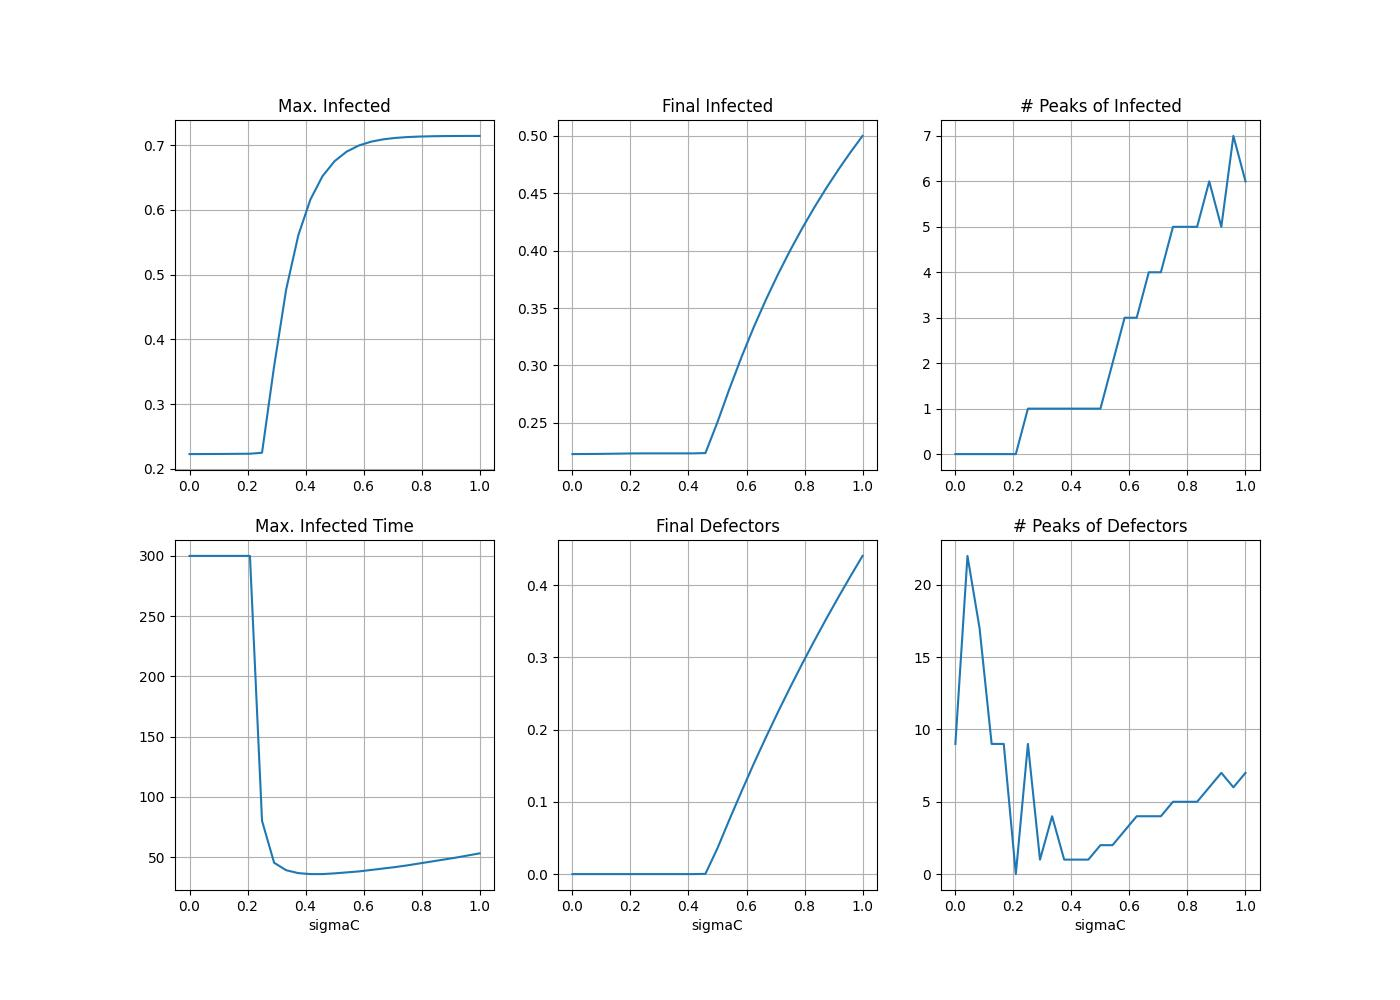
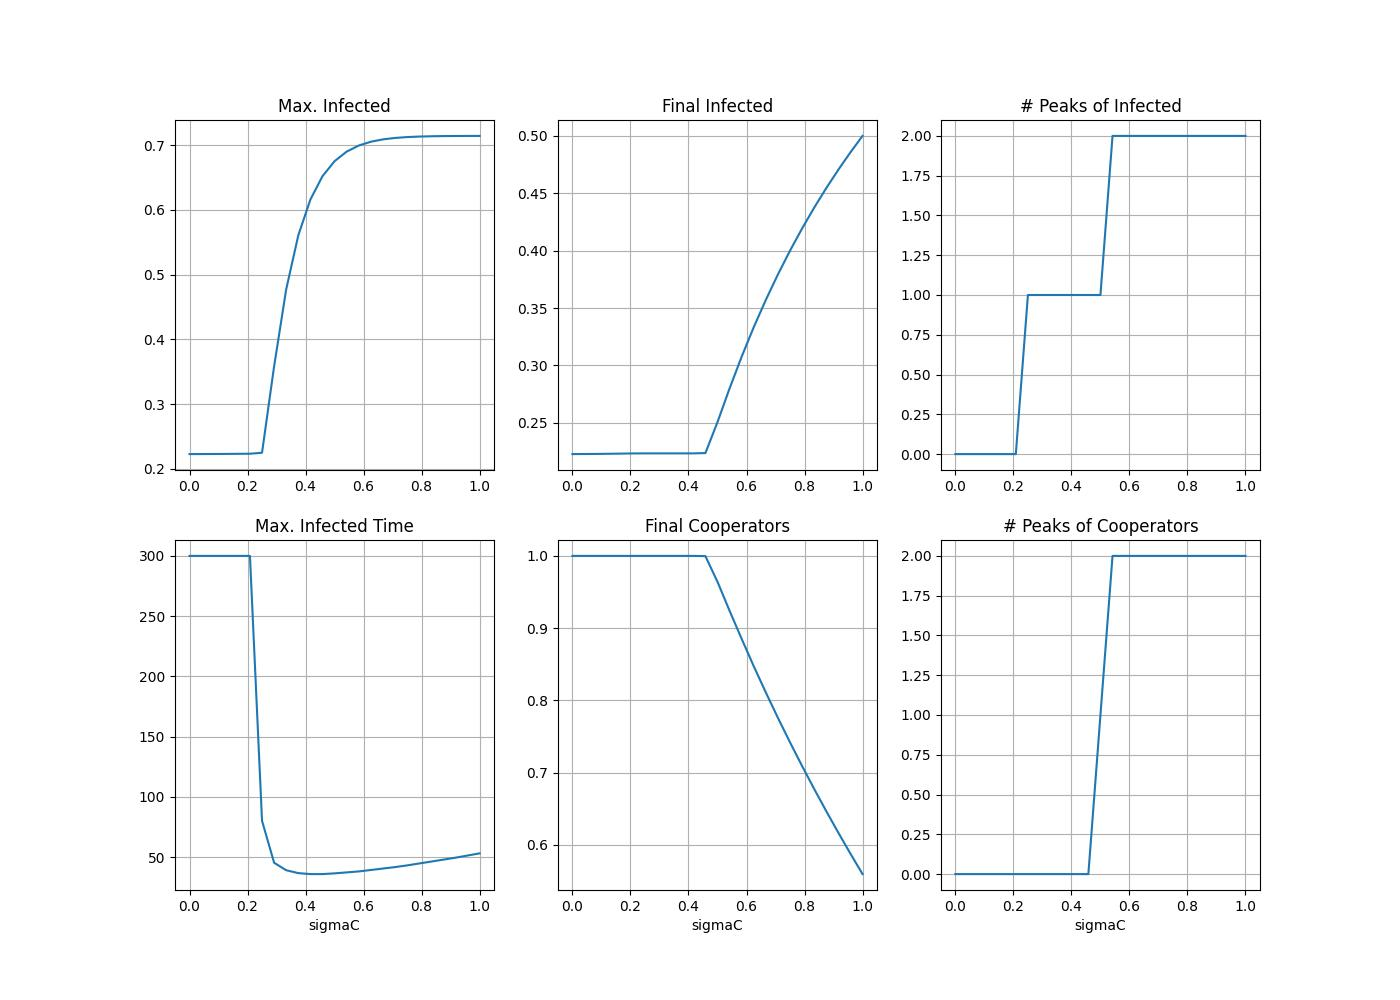
fixed count oscillations of features

diff --git a/plots/plot_ODE_dynamics.py b/plots/plot_ODE_dynamics.py
@@ -10,29 +10,72 @@ from scipy.signal import find_peaks
 
 main_path = os.path.join(os.path.split(os.getcwd())[0],'Epi_Social_Dynamic')
 config_path = os.path.join(main_path,'config.csv')
+
 config_data = pd.read_csv(config_path, sep=',', header=None, index_col=0)
 results_path = config_data.loc['results_dir'][1]
 plots_path = config_data.loc['plots_dir'][1]
 parematric_df_dir = config_data.loc['parametric_df_dir'][1]
-
+df_parametric = pd.read_csv(os.path.join(main_path, parematric_df_dir), index_col=0)
 
 ##
-t_max = 200
+t_max = 300
 gamma = 1 / 7
 t = np.linspace(0, t_max, t_max*5)
+min_prominence = 0.001
 
-def count_oscillations(sim):
-    idx_peaks, dict_peaks = find_peaks(sim)
-    return np.size(idx_peaks)
+def count_oscillations(sim, min_prominence):
+    idx_peaks, dict_peaks = find_peaks(sim, prominence=min_prominence)
+    return idx_peaks, len(idx_peaks)
 
+def find_stability_time(sim, epsilon):
+    last_val = sim[-1,0]
+    stable_sim = sim[np.abs(sim-last_val) <= epsilon]
+    return len(stable_sim)  
+
+def graph_simulationFeatures(path_to_results, name_file):
+    df_temp = pd.read_csv(path_to_results+'.csv', index_col=0)
+    I = np.array(df_temp[['I']]); S = np.array(df_temp[['S']])
+    C = np.array(df_temp[['C']]); D = np.array(df_temp[['D']])
+    time = np.array(df_temp[['time']])
+
+    
+    I_idxPeaks, I_numPeaks = count_oscillations(I[:,0], min_prominence)
+    I_timeStable = find_stability_time(I, 0.0001)
+    C_idxPeaks, C_numPeaks = count_oscillations(C[:,0], min_prominence)
+    C_timeStable = find_stability_time(C, 0.0001)
+    
+    fig, axes = plt.subplots(2,1, figsize=(12,8))
+
+    axes[0].plot(time, I, label='Infected', color='mediumorchid')
+    axes[0].plot(time[-I_timeStable:], I[-I_timeStable:], label='final I = {:0.2f}'.format(I[-1,0]), color='mediumorchid', alpha=0.4, marker='o')
+    axes[0].plot(time, S, label='Susceptible', color='dodgerblue')
+    axes[0].scatter(time[np.argmax(I),0], np.max(I), label='Max. I = {:0.2f}'.format(np.max(I)), color='purple')
+    axes[0].scatter(time[I_idxPeaks,0], I[I_idxPeaks,0], [500]*I_numPeaks, marker='|', label='# I Peaks = {:0.0f}'.format(I_numPeaks), color='indigo')
+    axes[0].grid()
+    axes[0].legend()
+    axes[0].set_ylabel('Percentage [%]')
+    axes[0].set_xlabel('Time [days]')
+
+    axes[1].plot(time, C, label='Cooperators', color='limegreen')
+    axes[1].plot(time[-C_timeStable:], C[-C_timeStable:], label='final C = {:0.2f}'.format(C[-1,0]), color='limegreen', alpha=0.4, marker='o')
+    axes[1].plot(time, D, label='Defectors', color='orangered')
+    axes[1].scatter(time[np.argmax(C)], np.max(C), label='Max. C = {:0.2f}'.format(np.max(C)), color='seagreen')
+    axes[1].scatter(time[C_idxPeaks,0], C[C_idxPeaks,0], [500]*C_numPeaks, marker='|', label='# C Peaks = {:0.0f}'.format(C_numPeaks), color='darkgreen')
+    axes[1].grid()
+    axes[1].legend()
+    axes[1].set_ylabel('Percentage [%]')
+    axes[1].set_xlabel('Time [days]')
+
+    plt.savefig(os.path.join(main_path, results_path, 'plots', 'ODE_Simulations', name_file+'.jpeg'), dpi=500)
+    plt.close()
 
 def graph_1D_experimentation(param_search, param_name:str):
     Imax_ = np.zeros(param_search.shape)
     Tmax_ = np.zeros(param_search.shape)
     Ifinal_ = np.zeros(param_search.shape)
-    Dfinal_ = np.zeros(param_search.shape)
+    Cfinal_ = np.zeros(param_search.shape)
     Ioscillations_ = np.zeros(param_search.shape)
-    Doscillations_ = np.zeros(param_search.shape)
+    Coscillations_ = np.zeros(param_search.shape)
 
     for idx1, p in enumerate(param_search):
         path_to_results = os.path.join(results_path, 'ode_results', '1D', 'ode_replicator_{}_{:0.2f}'.format(param_name, p)+'.csv')
@@ -41,9 +84,9 @@ def graph_1D_experimentation(param_search, param_name:str):
         Imax_[idx1] = np.max(df_temp[['I']])
         Tmax_[idx1] = np.array(df_temp[['time']])[np.argmax(df_temp[['I']])]
         Ifinal_[idx1] = np.array(df_temp[['I']])[-1]
-        Dfinal_[idx1] = np.array(df_temp[['D']])[-1]
-        Ioscillations_[idx1] = count_oscillations(np.array(df_temp[['I']])[:,0])
-        Doscillations_[idx1] = count_oscillations(np.array(df_temp[['D']])[:,0])
+        Cfinal_[idx1] = np.array(df_temp[['C']])[-1]
+        Ioscillations_[idx1] = count_oscillations(np.array(df_temp[['I']])[:,0], min_prominence)[1]
+        Coscillations_[idx1] = count_oscillations(np.array(df_temp[['C']])[:,0], min_prominence)[1]
 
     fig, ax = plt.subplots(2, 3, figsize=(14,10))
 
@@ -60,19 +103,19 @@ def graph_1D_experimentation(param_search, param_name:str):
     ax[0,1].set_title('Final Infected')
     ax[0,1].grid()
     
-    ax[1,1].plot(param_search, Dfinal_)
+    ax[1,1].plot(param_search, Cfinal_)
     ax[1,1].grid()
     ax[1,1].set_xlabel(f'{param_name}')
-    ax[1,1].set_title('Final Defectors')
+    ax[1,1].set_title('Final Cooperators')
 
     ax[0,2].plot(param_search, Ioscillations_)
     ax[0,2].grid()
     ax[0,2].set_title('# Peaks of Infected')
 
-    ax[1,2].plot(param_search, Doscillations_)
+    ax[1,2].plot(param_search, Coscillations_)
     ax[1,2].grid()
     ax[1,2].set_xlabel(f'{param_name}')
-    ax[1,2].set_title('# Peaks of Defectors')
+    ax[1,2].set_title('# Peaks of Cooperators')
 
     if not os.path.isdir( os.path.join(results_path, plots_path, '1D') ):
                 os.makedirs(os.path.join(results_path, plots_path, '1D'))
@@ -84,9 +127,9 @@ def graph_2D_experimentation(param_search1, param_search2, param_name1: str, par
     Imax_ = np.zeros((param_search1.shape[0], param_search2.shape[0]))
     Tmax_ = np.zeros((param_search1.shape[0], param_search2.shape[0]))
     Ifinal_ = np.zeros((param_search1.shape[0], param_search2.shape[0]))
-    Dfinal_ = np.zeros((param_search1.shape[0], param_search2.shape[0]))
+    Cfinal_ = np.zeros((param_search1.shape[0], param_search2.shape[0]))
     Ioscillations_ = np.zeros((param_search1.shape[0], param_search2.shape[0]))
-    Doscillations_ = np.zeros((param_search1.shape[0], param_search2.shape[0]))
+    Coscillations_ = np.zeros((param_search1.shape[0], param_search2.shape[0]))
 
     param_ticks1 = np.linspace(param_search1[0], param_search1[-1], 6)
     param_ticks2 = np.linspace(param_search2[0], param_search2[-1], 6)
@@ -102,9 +145,9 @@ def graph_2D_experimentation(param_search1, param_search2, param_name1: str, par
             Imax_[idx1, idx2] = np.max(df_temp[['I']])
             Tmax_[idx1, idx2] = np.array(df_temp[['time']])[np.argmax(df_temp[['I']])]
             Ifinal_[idx1, idx2] = np.array(df_temp[['I']])[-1]
-            Dfinal_[idx1, idx2] = np.array(df_temp[['D']])[-1]
-            Ioscillations_[idx1, idx2] = count_oscillations(np.array(df_temp[['I']])[:,0])
-            Doscillations_[idx1, idx2] = count_oscillations(np.array(df_temp[['D']])[:,0])
+            Cfinal_[idx1, idx2] = np.array(df_temp[['C']])[-1]
+            Ioscillations_[idx1, idx2] = count_oscillations(np.array(df_temp[['I']])[:,0], 0.001)[1]
+            Coscillations_[idx1, idx2] = count_oscillations(np.array(df_temp[['C']])[:,0], 0.001)[1]
         
     fig, axes = plt.subplots(2, 3, figsize=(14,10))
     
@@ -112,9 +155,9 @@ def graph_2D_experimentation(param_search1, param_search2, param_name1: str, par
     im1 = axes[0,0].matshow(Imax_, cmap='coolwarm')
     im2 = axes[1,0].matshow(Tmax_, cmap='coolwarm')
     im3 = axes[0,1].matshow(Ifinal_, cmap='coolwarm')
-    im4 = axes[1,1].matshow(Dfinal_, cmap='coolwarm')
+    im4 = axes[1,1].matshow(Cfinal_, cmap='coolwarm')
     im5 = axes[0,2].matshow(Ioscillations_, cmap='coolwarm')
-    im6 = axes[1,2].matshow(Doscillations_, cmap='coolwarm')
+    im6 = axes[1,2].matshow(Coscillations_, cmap='coolwarm')
 
     #axes[0,0].set_xticks(range(len(param_ticks2)))
     #axes[0,0].set_yticks(range(len(param_ticks1)))
@@ -129,7 +172,7 @@ def graph_2D_experimentation(param_search1, param_search2, param_name1: str, par
     #axes[1,0].set_yticks(range(len(param_ticks1)))
     #axes[1,0].set_xticklabels(param_ticks2)
     #axes[1,0].set_yticklabels(param_ticks1)
-    #axes[1,0].set_title('Final Defectors', y=-0.1)
+    axes[1,0].set_title('Final Cooperators', y=-0.1)
     axes[1,0].set_ylabel(f'{param_name1}')
     axes[1,0].set_xlabel(f'{param_name2}')
     plt.setp(axes[1,0].get_xticklabels(), ha='left')
@@ -164,7 +207,7 @@ def graph_2D_experimentation(param_search1, param_search2, param_name1: str, par
     #axes[1,2].set_yticks(range(len(param_ticks1)))
     #axes[1,2].set_xticklabels(param_ticks2)
     #axes[1,2].set_yticklabels(param_ticks1)
-    axes[1,2].set_title('# Peaks of Defectors', y=-0.1)
+    axes[1,2].set_title('# Peaks of Cooperators', y=-0.1)
     axes[1,2].set_xlabel(f'{param_name2}')
     plt.setp(axes[1,2].get_xticklabels(), ha='left')
     plt.colorbar(im6, fraction=0.045, pad=0.05, ax=axes[1,2])
@@ -179,9 +222,22 @@ def graph_2D_experimentation(param_search1, param_search2, param_name1: str, par
     plt.close()
 
 
-             
+sim1_path = os.path.join(main_path, results_path, 'ode_results','1D', 'ode_replicator_beta_0.33')           
+sim2_path = os.path.join(main_path, results_path, 'ode_results','1D', 'ode_replicator_beta_0.79')
+sim3_path = os.path.join(main_path, results_path, 'ode_results','1D', 'ode_replicator_sigmaC_0.33')
+sim4_path = os.path.join(main_path, results_path, 'ode_results','1D', 'ode_replicator_sigmaC_0.79')
+sim5_path = os.path.join(main_path, results_path, 'ode_results','1D', 'ode_replicator_sigmaD_0.33')
+sim6_path = os.path.join(main_path, results_path, 'ode_results','1D', 'ode_replicator_sigmaD_0.79')
 
-df_parametric = pd.read_csv(os.path.join(main_path, parematric_df_dir), index_col=0)
+graph_simulationFeatures(sim1_path, 'ode_replicator_beta_0.33')
+graph_simulationFeatures(sim2_path, 'ode_replicator_beta_0.79')
+graph_simulationFeatures(sim3_path, 'ode_replicator_sigmaC_0.33')
+graph_simulationFeatures(sim4_path, 'ode_replicator_sigmaC_0.79')
+graph_simulationFeatures(sim5_path, 'ode_replicator_sigmaD_0.33')
+graph_simulationFeatures(sim6_path, 'ode_replicator_sigmaD_0.79')
+
+
+
 beta_ = df_parametric[['beta']]
 sigmaD_ = df_parametric[['sigmaD']]
 sigmaC_ = df_parametric[['sigmaC']]

diff --git a/run/run_ode.py b/run/run_ode.py
@@ -178,7 +178,7 @@ sigmaD_ = df_parametric[['sigmaD']]
 sigmaC_ = df_parametric[['sigmaC']]
 
 list_values = ['low', 'mean', 'high']
-'''
+
 for idx1, val1 in enumerate(list_values):
     fig, ax = plt.subplots(3,3, figsize=(14,10))
     beta_temp = beta_.loc[val1][0]
@@ -208,7 +208,7 @@ for idx1, val1 in enumerate(list_values):
     plt.close()
 
 print('DONE SIMPLE SIMULATIONS')
-'''
+
 ### Save results
 
 
